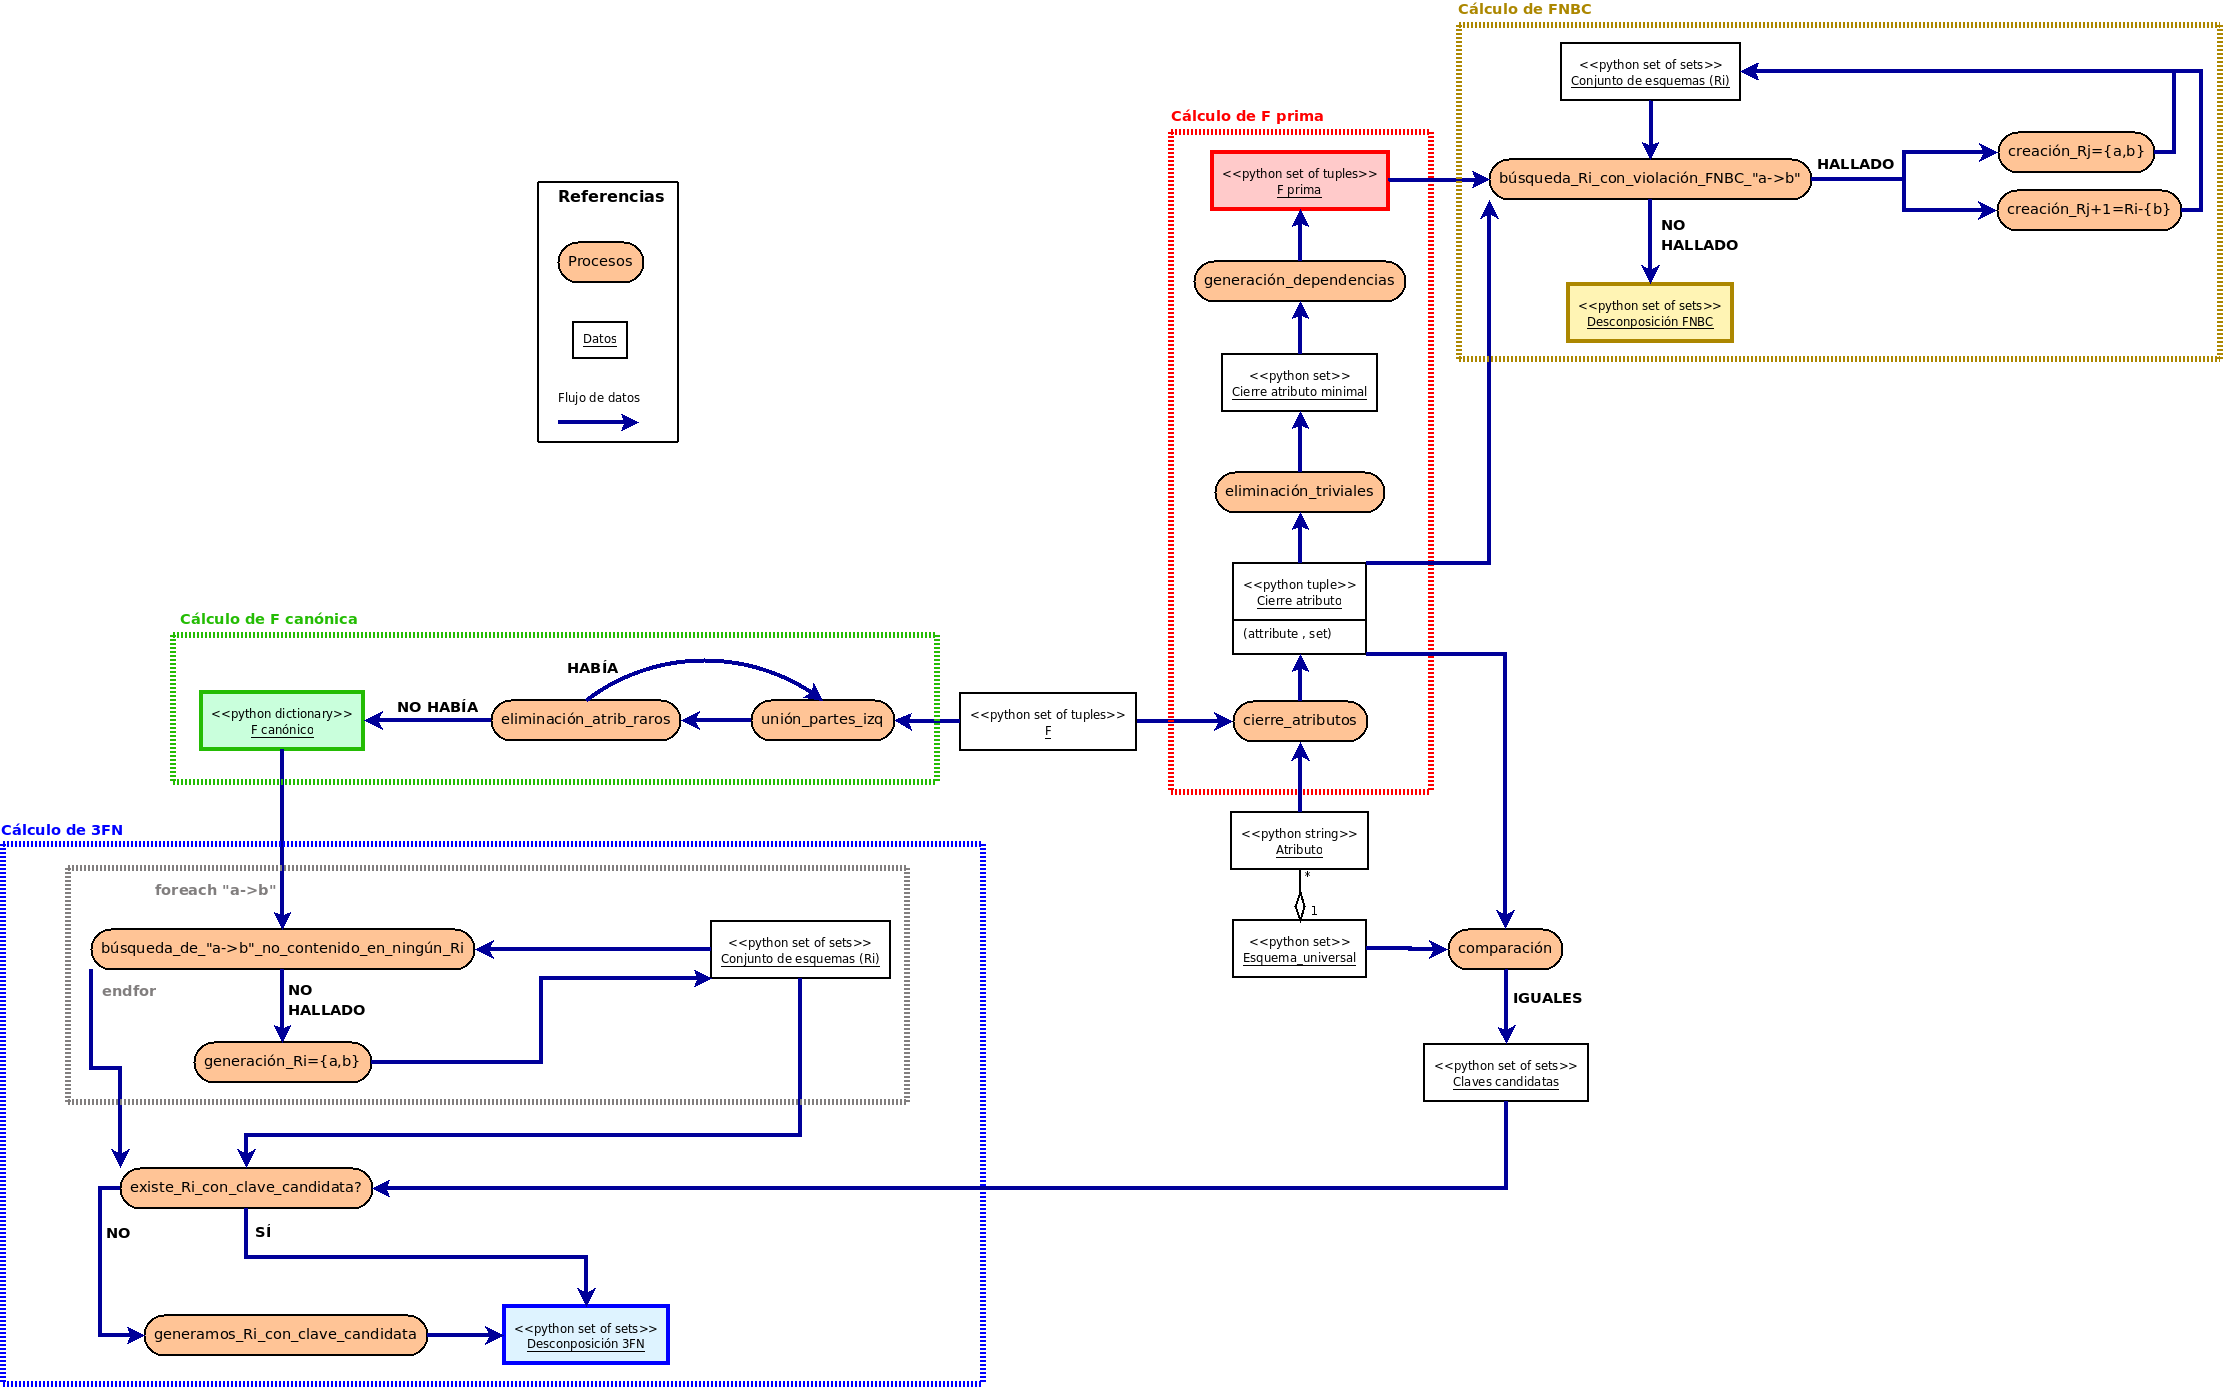
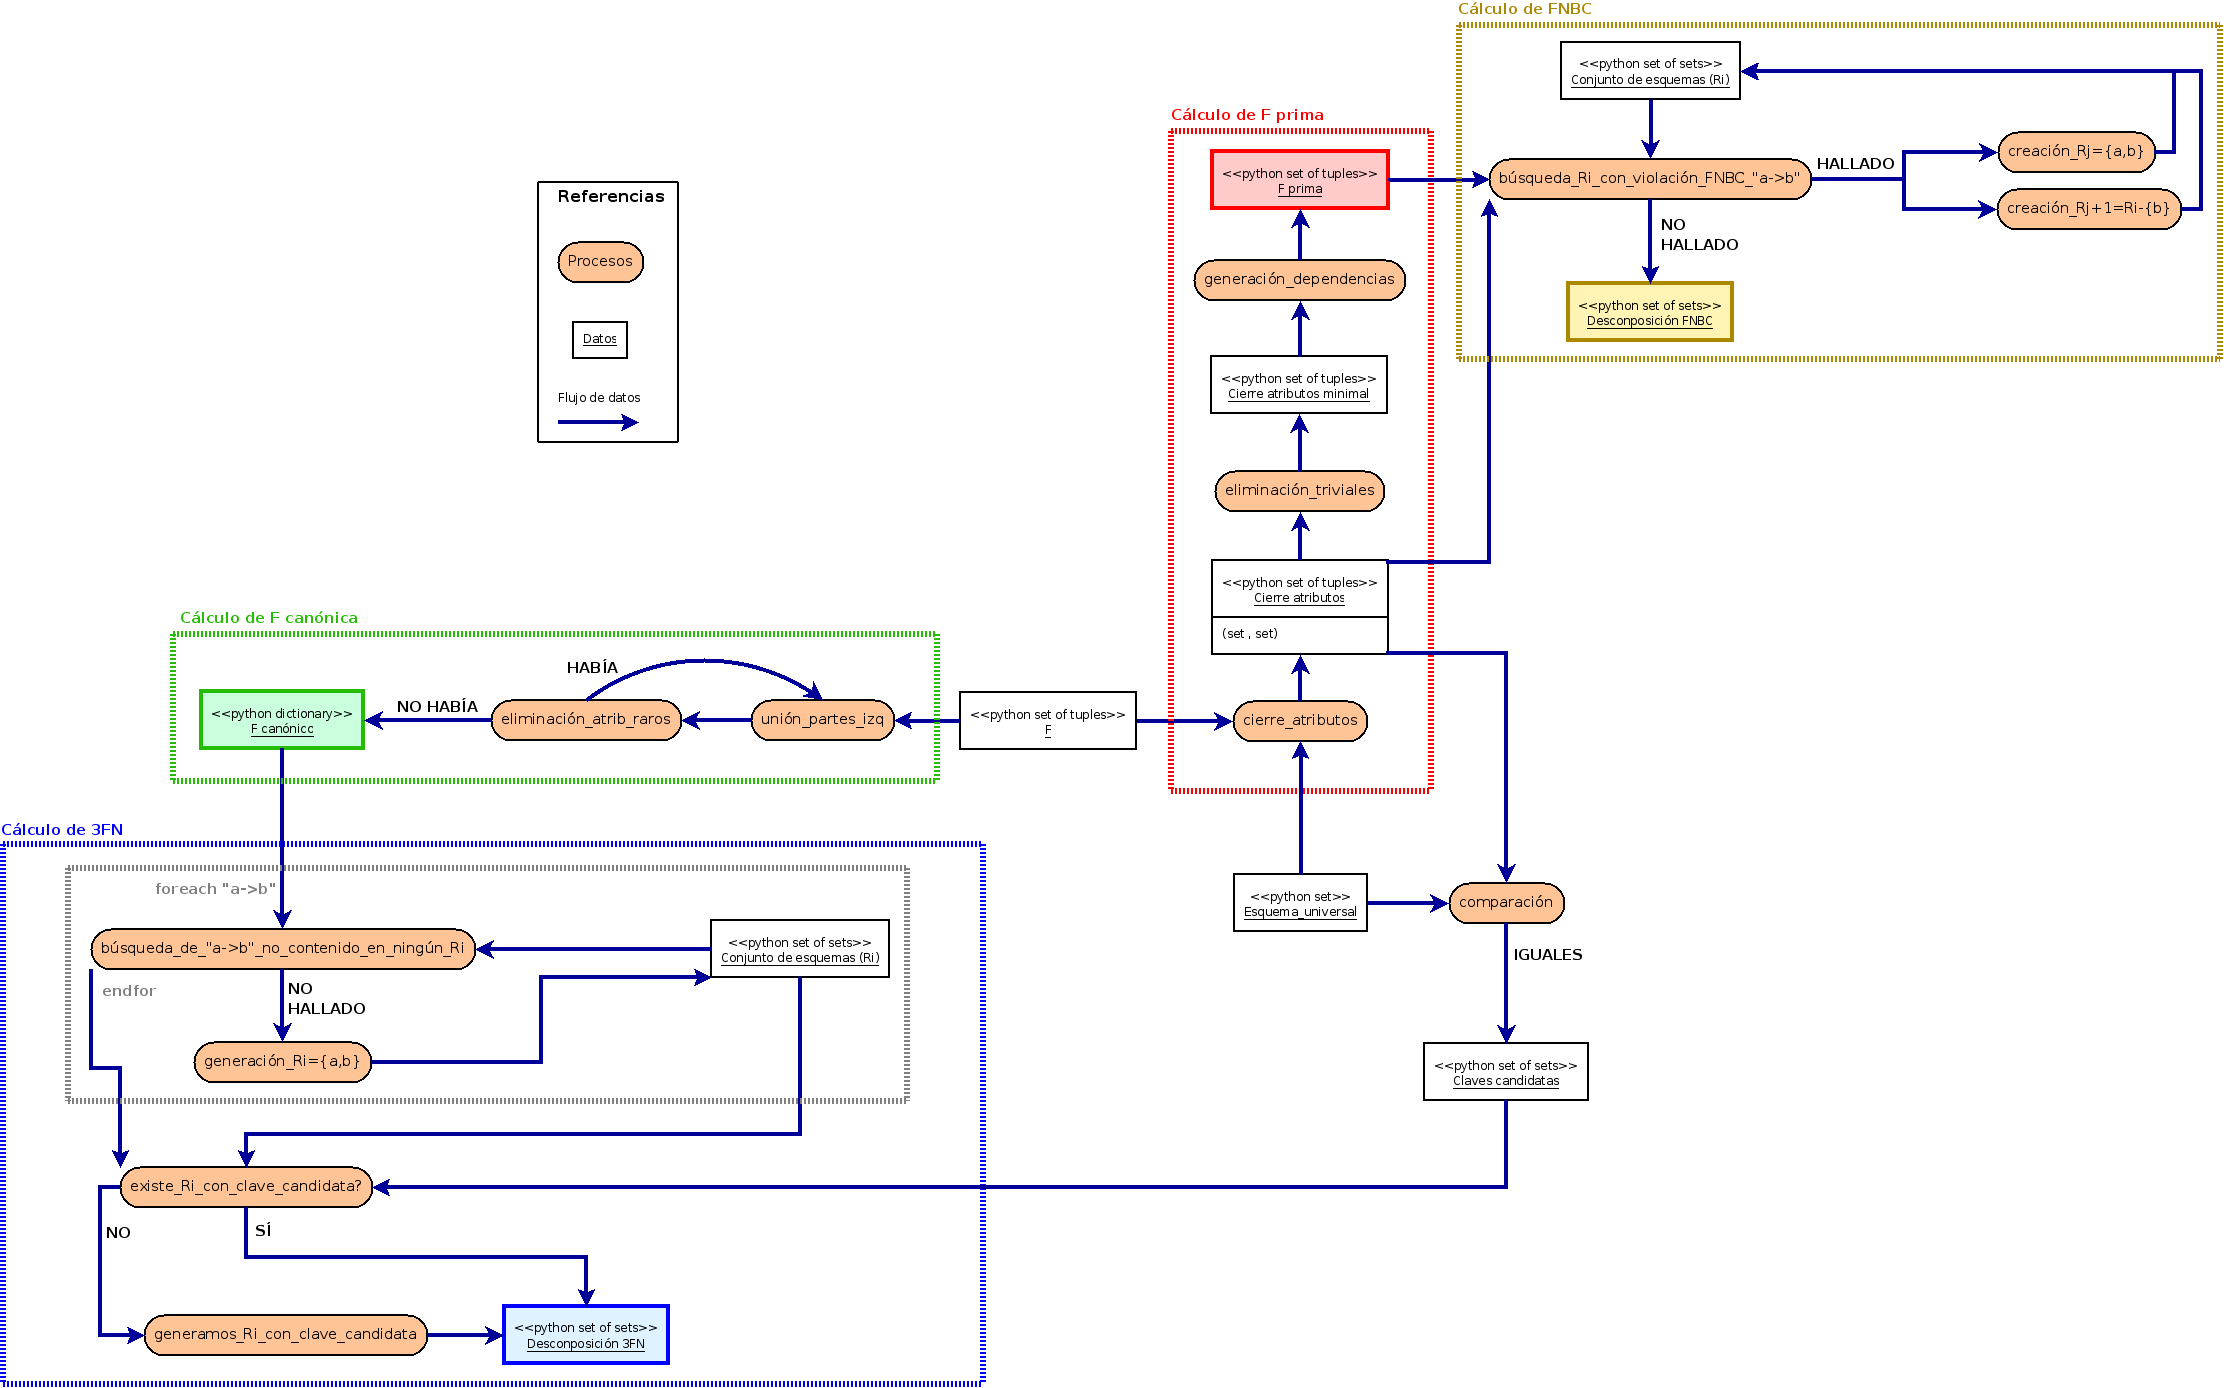
Actualizando el diagrama para reflejar los tipos de datos de cada componente que pensamos

diff --git a/trunk/base_datos/Segunda_Fase/FNBC.py b/trunk/base_datos/Segunda_Fase/FNBC.py
@@ -8,29 +8,63 @@ def calcular_FNBC (conjRi, Fpri):
 	if (not (type(conjRi) is set)):
 		return "El 1º parametro debe ser un 'set' de 'sets'"
 	elif (not (type(Fpri) is set)):
-		return "El 2º parametro debe ser un 'set' de 'sets'"
+		return "El 2º parametro debe ser un 'set' de 'tuplas'"
 	
-	Ri = conjRi.pop
-	
+"""	Ri = conjRi.pop	
 	if (not (type(Ri) is set)):
-		return "El 1º set debe tener sets dentro suyo"
+		return "El 1º parámetro debe tener sets dentro suyo"
 	else:
 		conjRi.add(Ri)
-	
-	# conjRi es modificable => se pasa por referencia => lo
-	# modificaremos hasta dejarlo en FNBC
+"""	
+	#conjRi es modificable => se pasa por referencia => lo
+	#modificaremos hasta dejarlo en FNBC
 	
 	stop = False
 	while (not stop):
 		stop = True
 		
 		for dep in Fpri:	
-			Ri,depv = es_violación_FNBC (conjRi, dep)
+			Ri = es_violación_FNBC (conjRi, dep)
 			if Ri is not None: # Si hay violación en algún Ri
 				stop = False
-				convertir_FNBC (conjRi, Ri, depv)
+				convertir_FNBC (conjRi, Ri, dep)
+		
+	print "conRi esta ahora en FNBC"
+	
 
 
 
 def es_violación_FNBC (conjRi, dep):
 	
+	attr = dep[0].union(dep[1]) # atributos en la dependencia
+	
+	for Ri in conjRi:
+		if attr.issubset(Ri):
+			
+
+
+
+def convertir_FNBC (conjRi, Ri, dep):
+	
+	conjRi.remove(Ri)
+	
+	Rj = dep[1].union(dep[1]) # atributos en la dependencia
+	
+	for attr in dep[2]:
+		Ri = Ri.remove(attr)
+	
+	
+
+
+
+		
+		
+		
+		
+		
+		
+		
+		
+		
+		
+		
